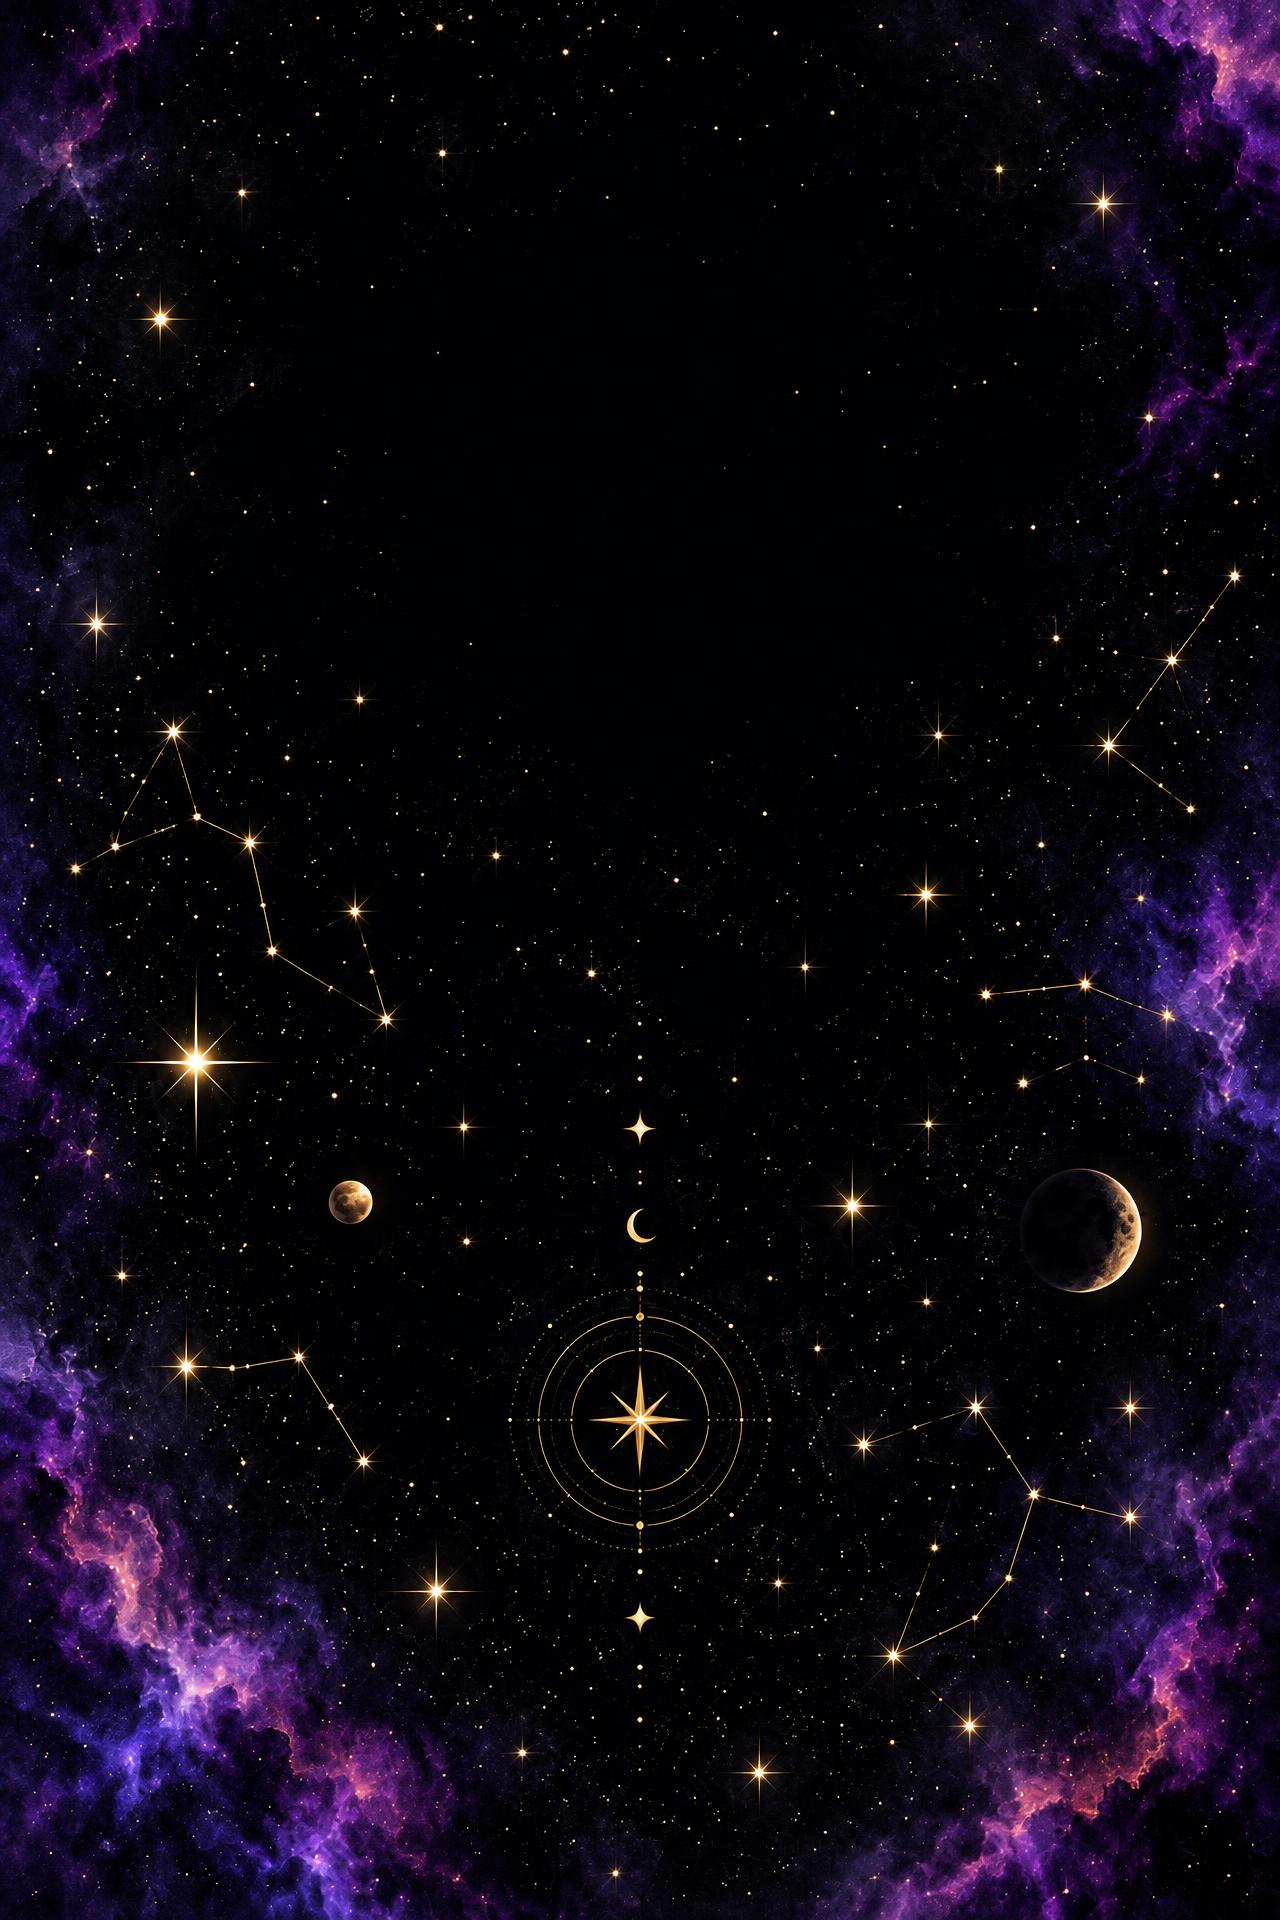
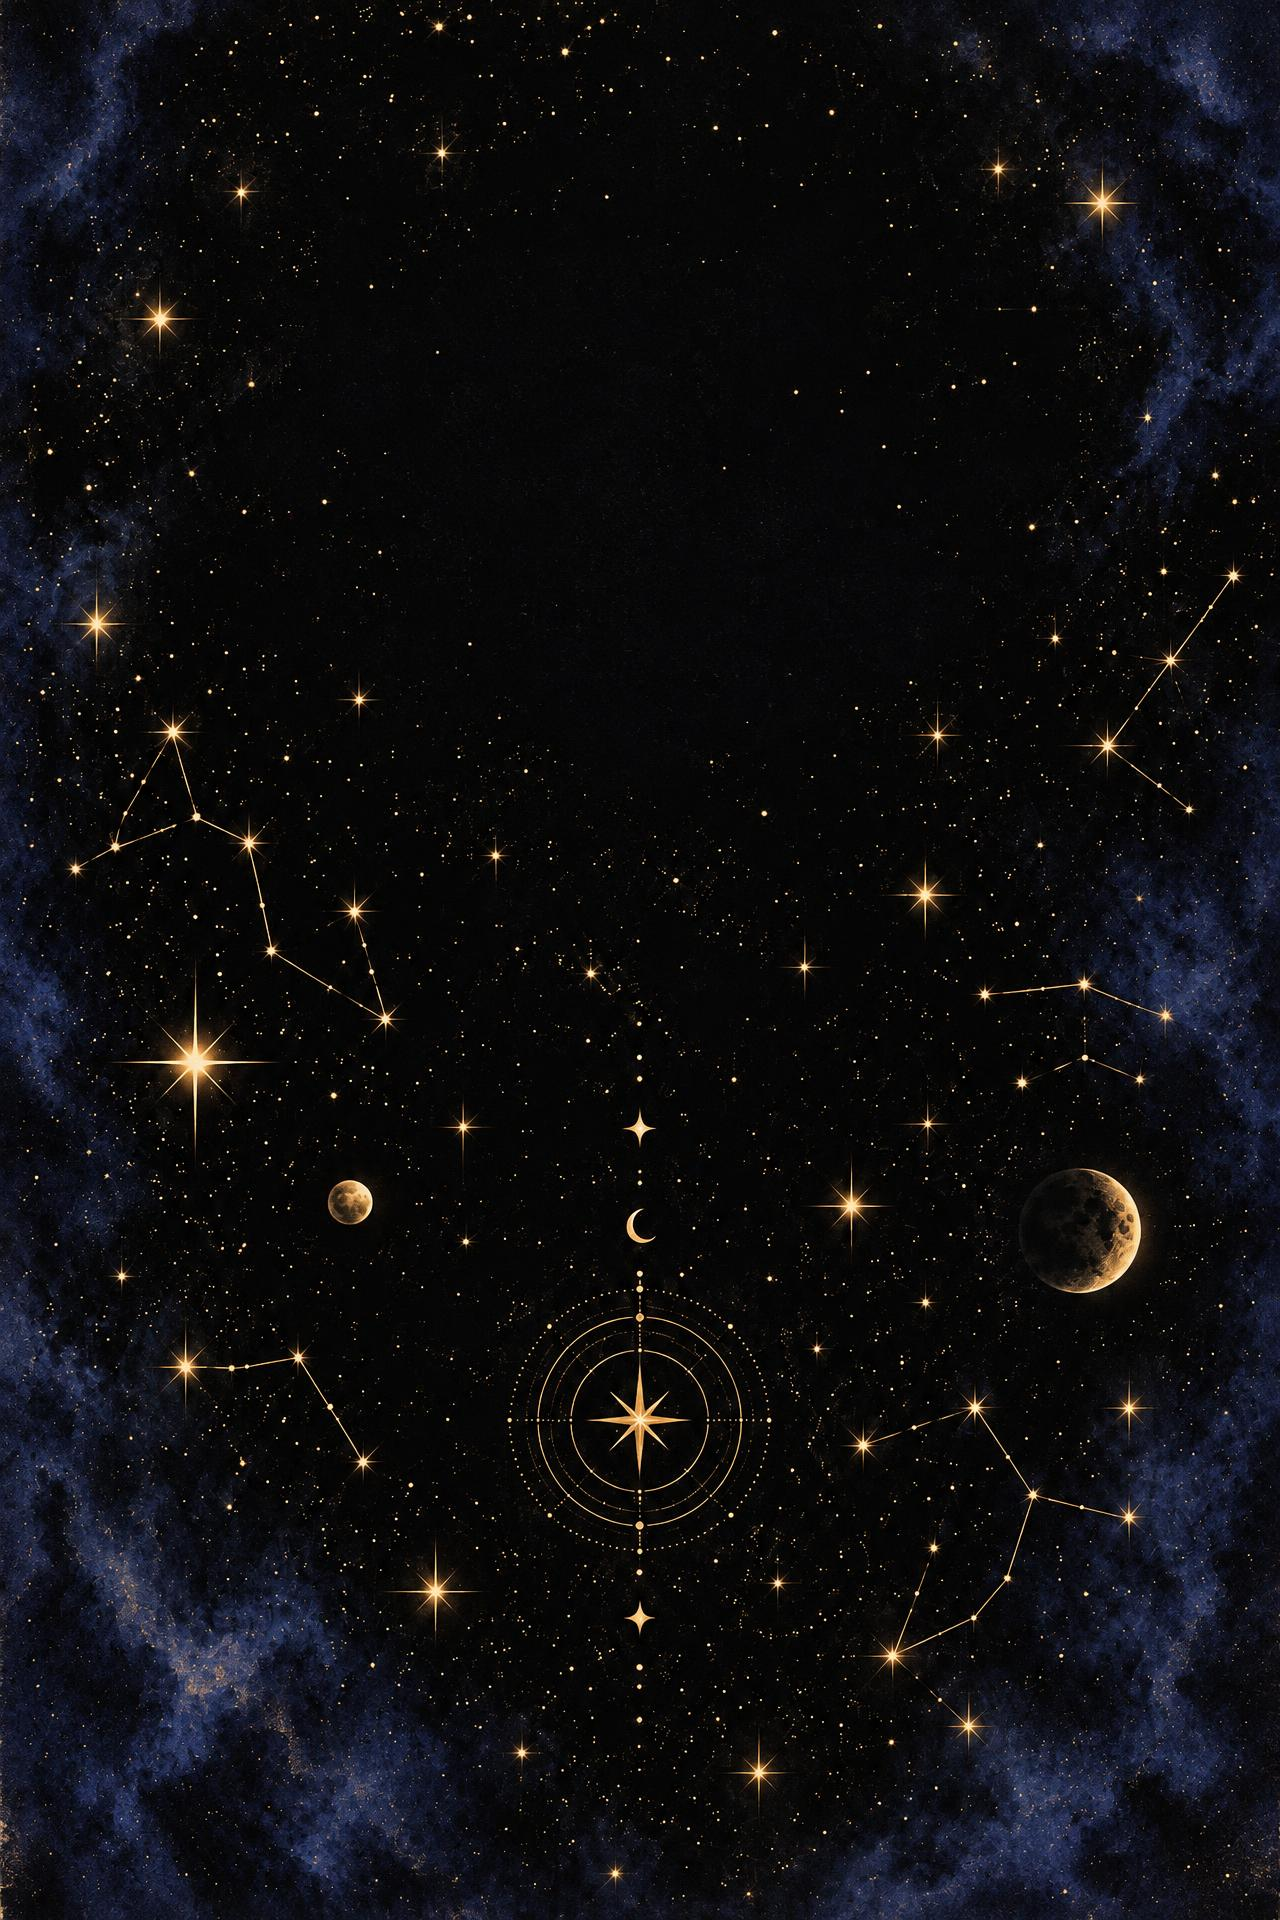
Observatory Console replaces promo film on landing pages; printed comic drafts use opted-in dream dates (admin dates-only RPC); Midnight Stars cover redrawn without violet

diff --git a/src/components/admin/ComicQueue.tsx b/src/components/admin/ComicQueue.tsx
@@ -71,9 +71,13 @@ export function ComicQueue() {
     // Each subscriber's chosen observatory character becomes their stand-in on the cover (admin read policy).
     const chosen = await supabase.from('member_characters').select('user_id,character_id').in('user_id', toDraft.map(r => r.s.user_id));
     const characterOf = new Map((chosen.data ?? []).map(c => [c.user_id, c.character_id]));
+    // Dates only of dreams members marked "use in comic" (admin RPC; dream text never leaves the member's account).
+    const dreamRows = await supabase.rpc('admin_comic_dream_dates', { _user_ids: toDraft.map(r => r.s.user_id) });
+    const datesOf = new Map<string, string[]>();
+    for (const d of dreamRows.data ?? []) datesOf.set(d.user_id, [...(datesOf.get(d.user_id) ?? []), d.dream_date]);
     const made = toDraft.map(r => {
       const chart = computeChart({ date: r.s.birth_date!, time: r.s.birth_time || null, lat: r.s.lat!, lon: r.s.lon!, tz: r.s.tz!, placeLabel: r.s.place_label ?? '', placeSource: 'geocoded', houseSystem: (r.s.house_system as HouseSystem) || 'placidus' });
-      const script = buildComicIssue(chart, { reader: r.s.display_name || r.s.shipping_address?.name || 'Reader', month, issueNumber: r.number, guide: guideFor(characterOf.get(r.s.user_id)) });
+      const script = buildComicIssue(chart, { reader: r.s.display_name || r.s.shipping_address?.name || 'Reader', month, issueNumber: r.number, guide: guideFor(characterOf.get(r.s.user_id)), dreamDates: datesOf.get(r.s.user_id) ?? [] });
       return { user_id: r.s.user_id, subscription_id: r.s.subscription_id, issue_month: key, issue_number: r.number, status: 'draft', title: script.title.slice(0, 200), script: script as never };
     });
     const { error } = await supabase.from('comic_issues').upsert(made, { onConflict: 'subscription_id,issue_month', ignoreDuplicates: true });

diff --git a/src/content/coverDesigns.ts b/src/content/coverDesigns.ts
@@ -25,7 +25,7 @@ export type ArtVariant = { src: string; size: [number, number] };
 export type CoverDesign = { key: string; label: string; kind: 'art' | 'solid' | 'gradient'; detail: string; src?: string; variants?: ArtVariant[]; colors?: string[]; accent?: string; monogram?: boolean };
 
 export const COVER_DESIGNS: CoverDesign[] = [
-  { key: 'midnight-stars', label: 'Midnight Stars', kind: 'art', detail: 'Black night sky with fine gold stars and a faint violet glow.', src: coverMidnightStars, variants: [{ src: coverMidnightStars, size: [1280, 1920] }, { src: coverMidnightStarsLetter, size: [1488, 1920] }, { src: coverMidnightStarsSquare, size: [1920, 1920] }] },
+  { key: 'midnight-stars', label: 'Midnight Stars', kind: 'art', detail: 'Black night sky with brass stars and a faint indigo haze.', src: coverMidnightStars, variants: [{ src: coverMidnightStars, size: [1280, 1920] }, { src: coverMidnightStarsLetter, size: [1488, 1920] }, { src: coverMidnightStarsSquare, size: [1920, 1920] }] },
   { key: 'celestial-cartographer', label: 'Celestial Cartographer', kind: 'art', detail: 'A brass star atlas with engraved constellation lines on deep indigo.', src: coverCartographer, variants: [{ src: coverCartographer, size: [1280, 1920] }, { src: coverCartographerLetter, size: [1488, 1920] }, { src: coverCartographerSquare, size: [1920, 1920] }] },
   { key: 'deep-orbit', label: 'Deep Orbit', kind: 'art', detail: 'A ringed planet and sweeping gold orbits in deep space.', src: coverDeepOrbit, variants: [{ src: coverDeepOrbit, size: [1280, 1920] }, { src: coverDeepOrbitLetter, size: [1488, 1920] }, { src: coverDeepOrbitSquare, size: [1920, 1920] }] },
   { key: 'vintage-monogram', label: 'Vintage Monogram', kind: 'solid', detail: 'Oxblood book cloth with your initials in a brass seal.', colors: ['#3B1420'], accent: '#C29B38', monogram: true },

diff --git a/src/components/admin/MarketingPages.tsx b/src/components/admin/MarketingPages.tsx
@@ -6,7 +6,7 @@ import { Input } from '@/components/ui/input';
 import { Textarea } from '@/components/ui/textarea';
 import { Label } from '@/components/ui/label';
 import { BRAND_COPY } from '@/content/brandCopy';
-import { PromoVideo } from '@/components/brand/PromoVideo';
+import { DemoScreen } from '@/components/brand/DemoScreen';
 import { PROMO_VIDEO, FILM_MARKER } from '@/content/promoVideo';
 import promo1080 from '@/assets/videos/zodaci-promo-1080.mp4.asset.json';
 import promo720 from '@/assets/videos/zodaci-promo-720.mp4.asset.json';
@@ -60,9 +60,9 @@ export function MarketingPages() {
     <div className="space-y-8">
       <section aria-labelledby="film-admin-h" className="space-y-4">
         <h2 id="film-admin-h" className="font-display text-2xl">Brand film</h2>
-        <p className="max-w-2xl text-sm text-muted-foreground">The {PROMO_VIDEO.lengthLabel} promo film plays on the welcome page, the public home page and the demo. Add it to any landing page by putting <code className="rounded bg-muted px-1">{FILM_MARKER}</code> on its own line in the body.</p>
+        <p className="max-w-2xl text-sm text-muted-foreground">The Observatory Console (the same one on the demo) replaces the old promo film on landing pages. Add it to any landing page by putting <code className="rounded bg-muted px-1">{FILM_MARKER}</code> on its own line in the body.</p>
         <div className="grid gap-5 lg:grid-cols-[minmax(0,3fr)_minmax(0,2fr)]">
-          <PromoVideo />
+          <DemoScreen />
           <div className="space-y-3 text-sm">
             <p className="text-muted-foreground">For social posts and ads:</p>
             <div className="flex flex-wrap gap-2">

diff --git a/src/pages/LandingPage.tsx b/src/pages/LandingPage.tsx
@@ -5,7 +5,7 @@ import ReactMarkdown from 'react-markdown';
 import { supabase } from '@/integrations/supabase/client';
 import { Button } from '@/components/ui/button';
 import { usePageMeta } from '@/hooks/usePageMeta';
-import { PromoVideo } from '@/components/brand/PromoVideo';
+import { DemoScreen } from '@/components/brand/DemoScreen';
 import { splitOnFilm } from '@/content/promoVideo';
 
 type Page = { title: string; headline: string; subheadline: string; body: string; cta_label: string; cta_link: string };
@@ -37,7 +37,7 @@ export default function LandingPage() {
         {cta}
       </motion.header>
       {p.body && splitOnFilm(p.body).map((part, i) => <div key={i} className="space-y-14">
-        {i > 0 && <div className="mx-auto max-w-4xl"><PromoVideo /></div>}
+        {i > 0 && <div className="mx-auto max-w-4xl"><DemoScreen /></div>}
         {part && <motion.section initial={{ opacity: 0 }} whileInView={{ opacity: 1 }} viewport={{ once: true }} transition={{ duration: 1 }} className="prose prose-invert mx-auto max-w-3xl"><ReactMarkdown>{part}</ReactMarkdown></motion.section>}
       </div>)}
       <div className="text-center">{cta}</div>

diff --git a/src/integrations/supabase/types.ts b/src/integrations/supabase/types.ts
@@ -3180,6 +3180,13 @@ export type Database = {
         }[]
       }
       admin_clear_ai_pause: { Args: { _scope: string }; Returns: boolean }
+      admin_comic_dream_dates: {
+        Args: { _user_ids: string[] }
+        Returns: {
+          dream_date: string
+          user_id: string
+        }[]
+      }
       admin_comic_manifest: {
         Args: never
         Returns: {
